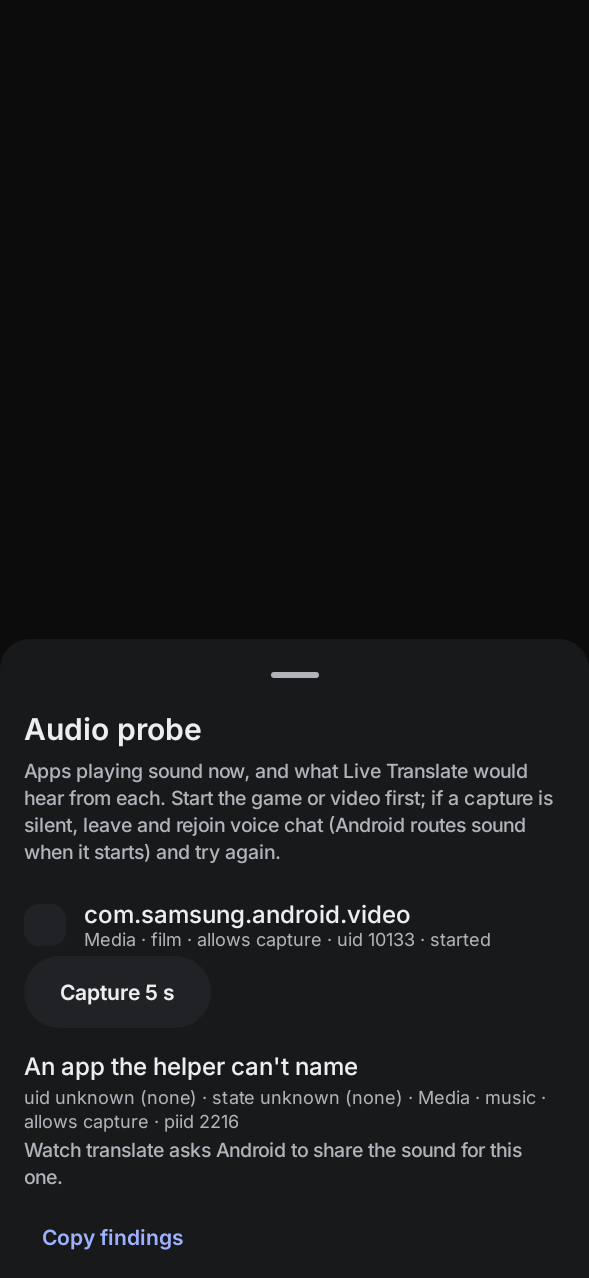
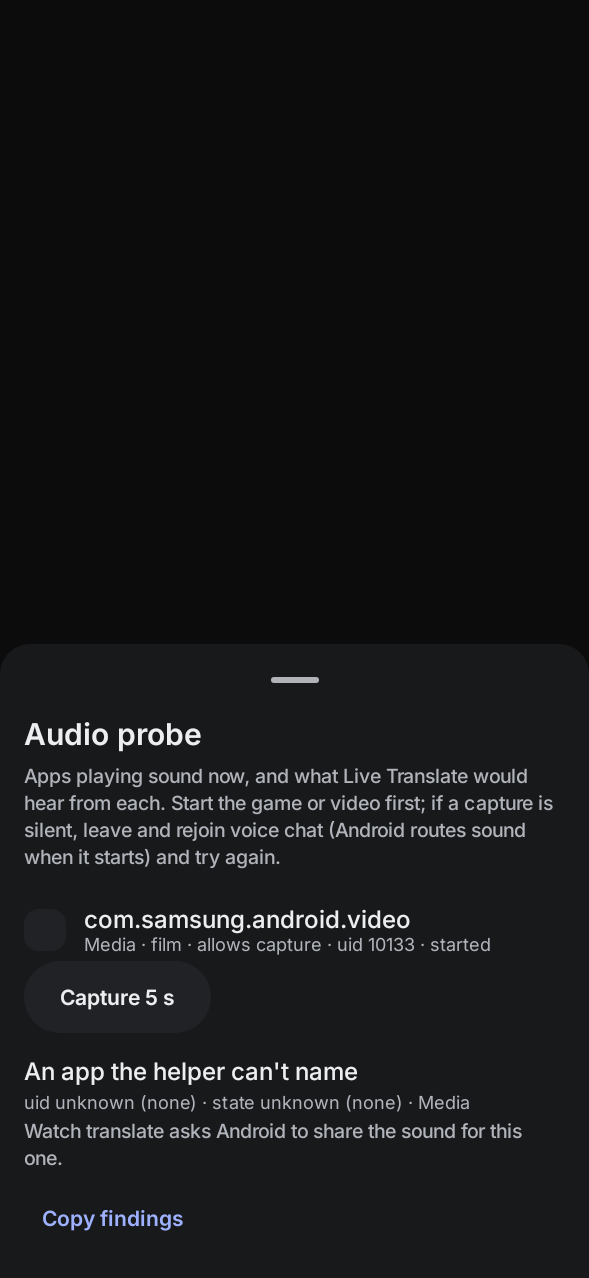
Live Translate (re-review): the log says the choice first and names only that app; the share notice goes once on; a late death notice
- Watch and Game translate log their choice first (the capture log keeps 300 characters of a line), then each player
  by uid, state, usage and where they were read; only the app chosen or picked is named. Copy diagnostics lists the
  players the same way, its header naming the apps picked for Live Translate. The Audio probe's row for a player whose
  app the helper can't name shows the same.
- The notice asking to share the sound goes once Live Translate is on.
- A helper let go after a failed call is unlinked from the death notice, and a death notice only clears the helper
  when the one here now is gone: a late notice of an older helper never takes the next one's place.

diff --git a/mobile/app/src/main/java/com/echoledger/mobile/recording/CaptureLog.kt b/mobile/app/src/main/java/com/echoledger/mobile/recording/CaptureLog.kt
@@ -39,24 +39,27 @@ object CaptureLog {
      * The text "Copy diagnostics" puts on the clipboard: the phone, the app and helper builds, the log, then (since v1.8)
      * the capture journal of the last 7 days and auto-record's timeline. No audio, names or numbers in any of it.
      */
-    fun report(context: Context, helperState: String, players: List<String> = emptyList()): String = buildString {
-        appendLine("EchoLedger capture diagnostics")
-        appendLine("Phone: ${Build.MANUFACTURER} ${Build.MODEL}, Android ${Build.VERSION.RELEASE} (SDK ${Build.VERSION.SDK_INT})")
-        appendLine("App: ${BuildConfig.VERSION_NAME} (${BuildConfig.VERSION_CODE}), helper build ${BuildConfig.HELPER_BUILD}")
-        appendLine("Helper: $helperState")
-        // Since v1.8: the players the helper sees now (uid, state, usage), what Live Translate chooses from.
-        if (players.isNotEmpty()) {
-            appendLine("-- Players the helper sees")
-            players.forEach { appendLine(it) }
+    fun report(context: Context, helperState: String, players: List<String> = emptyList(), picked: List<String> = emptyList()): String =
+        buildString {
+            appendLine("EchoLedger capture diagnostics")
+            appendLine("Phone: ${Build.MANUFACTURER} ${Build.MODEL}, Android ${Build.VERSION.RELEASE} (SDK ${Build.VERSION.SDK_INT})")
+            appendLine("App: ${BuildConfig.VERSION_NAME} (${BuildConfig.VERSION_CODE}), helper build ${BuildConfig.HELPER_BUILD}")
+            appendLine("Helper: $helperState")
+            // Since v1.8: the players the helper sees now (uid, state, usage), what Live Translate chooses from.
+            if (players.isNotEmpty()) {
+                appendLine(
+                    "-- Players the helper sees" + if (picked.isEmpty()) "" else " (picked for Live Translate: ${picked.joinToString()})"
+                )
+                players.forEach { appendLine(it) }
+            }
+            appendLine("--")
+            lines(context).forEach { appendLine(it) }
+            val journal = CallJournal.book(context)
+            appendLine("-- Calls, last ${CallJournal.KEEP_DAYS} days (detected → armed → started → both channels have audio → saved)")
+            CallJournal.describe(journal).ifEmpty { listOf("none") }.forEach { appendLine(it) }
+            appendLine("-- Auto-record")
+            CallJournal.describeMarks(journal).ifEmpty { listOf("nothing yet") }.forEach { appendLine(it) }
         }
-        appendLine("--")
-        lines(context).forEach { appendLine(it) }
-        val journal = CallJournal.book(context)
-        appendLine("-- Calls, last ${CallJournal.KEEP_DAYS} days (detected → armed → started → both channels have audio → saved)")
-        CallJournal.describe(journal).ifEmpty { listOf("none") }.forEach { appendLine(it) }
-        appendLine("-- Auto-record")
-        CallJournal.describeMarks(journal).ifEmpty { listOf("nothing yet") }.forEach { appendLine(it) }
-    }
 
     @Synchronized
     fun clear(context: Context) {

diff --git a/mobile/app/src/main/java/com/echoledger/mobile/translate/LiveTranslateService.kt b/mobile/app/src/main/java/com/echoledger/mobile/translate/LiveTranslateService.kt
@@ -168,12 +168,13 @@ class LiveTranslateService :
             val musicActive = runCatching { getSystemService(android.media.AudioManager::class.java).isMusicActive }.getOrDefault(false)
             val apps = if (mode == TranslateMode.GAME) prefs.game.games else prefs.watch.apps
             val pick = TranslateTargets.decide(mode, picked, apps, answer, musicActive)
-            // What the helper said and what was chosen, for Copy diagnostics (apps by package, no names or text).
+            // The choice first (the log keeps 300 characters of a line), then what the helper said of each player: uid,
+            // state and usage, no app names; only the app chosen or picked is named (since v1.8, for Copy diagnostics).
             if (helper != null) {
                 CaptureLog.add(
                     this@LiveTranslateService,
                     "translate",
-                    "${mode.key}: music active $musicActive; " + AudioProbe.lines(answer).joinToString(" | ") + " → " + pickText(pick)
+                    "${mode.key}: → ${pickText(pick)}; music active $musicActive; " + AudioProbe.lines(answer).joinToString(" | ")
                 )
             }
             // Never "nothing is playing" from an answer the helper could not give: Android shares the sound instead.
@@ -260,6 +261,8 @@ class LiveTranslateService :
 
     private fun showOverlay() {
         if (running.value == null) return
+        // On: a notice still asking to share the sound (or saying why it stopped before) is over (since v1.8).
+        getSystemService(NotificationManager::class.java).cancel(NOTIFICATION_PROBLEM_ID)
         val o = TranslateOverlay(this, subtitles = mode == TranslateMode.WATCH, actions = this)
         val landscape = resources.configuration.orientation == Configuration.ORIENTATION_LANDSCAPE
         val placement = prefs.placements[BoxGeometry.key(packageName, landscape)]

diff --git a/mobile/app/src/test/java/com/echoledger/mobile/translate/WatchTranslateStartTest.kt b/mobile/app/src/test/java/com/echoledger/mobile/translate/WatchTranslateStartTest.kt
@@ -79,6 +79,28 @@ class WatchTranslateStartTest : AppTest() {
     }
 
     @Test
+    fun `the capture log says the choice first and names no app but the one chosen`() {
+        CaptureLog.clear(app)
+        app.graph.helper.attach(
+            Helper(
+                """[{"uid":10133,"uid_from":"text","packages":["com.samsung.android.video"],"usage":1,"content_type":3,
+                    "capture_policy":1,"state":2,"state_from":"text","piid":2215},
+                   {"uid":10300,"uid_from":"getter","packages":["com.spotify.music"],"usage":1,"content_type":2,
+                    "capture_policy":1,"state":3,"state_from":"getter","piid":2216}]"""
+            ),
+            source = "adb"
+        )
+        val controller = buildService(LiveTranslateService::class.java, LiveTranslateService.startIntent(app, TranslateMode.WATCH)).create()
+        controller.startCommand(0, 1)
+        pumpUntil("the choice to be logged") { CaptureLog.lines(app).any { it.contains(" translate: ") } }
+        val line = CaptureLog.lines(app).last { it.contains(" translate: ") }
+        assertTrue(line, line.substringAfter(" translate: ").startsWith("watch: → listening to com.samsung.android.video"))
+        assertFalse("another app's name is more than the diagnosis needs: $line", line.contains("spotify"))
+        assertTrue(line, line.contains("uid 10300 · paused · Media"))
+        LiveTranslateService.stop(app)
+    }
+
+    @Test
     fun `with everything readable and nothing playing, it still says so`() {
         app.graph.helper.attach(
             Helper(

diff --git a/mobile/app/src/test/java/com/echoledger/mobile/overlay/PrivateWindowsTest.kt b/mobile/app/src/test/java/com/echoledger/mobile/overlay/PrivateWindowsTest.kt
@@ -386,6 +386,26 @@ class PrivateWindowsTest : AppTest() {
     }
 
     @Test
+    fun `the notice asking to share the sound goes once Live Translate is on`() {
+        val nm = app.getSystemService(android.app.NotificationManager::class.java)
+        nm.notify(
+            com.echoledger.mobile.translate.LiveTranslateService.NOTIFICATION_PROBLEM_ID,
+            androidx.core.app.NotificationCompat.Builder(app, com.echoledger.mobile.translate.LiveTranslateService.CHANNEL)
+                .setSmallIcon(com.echoledger.mobile.R.drawable.ic_stat_rec)
+                .setContentText("EchoLedger couldn't tell which app is playing, so Android asks to share the sound.")
+                .build()
+        )
+        val controller = buildService(
+            com.echoledger.mobile.translate.LiveTranslateService::class.java,
+            android.content.Intent(app, com.echoledger.mobile.translate.LiveTranslateService::class.java)
+        ).create()
+        controller.get().openForTest(com.echoledger.mobile.translate.TranslateMode.WATCH)
+        idle()
+        assertEquals(null, shadowOf(nm).getNotification(com.echoledger.mobile.translate.LiveTranslateService.NOTIFICATION_PROBLEM_ID))
+        controller.get().onStop()
+    }
+
+    @Test
     fun `turning the grip on while hidden adds no grip over the grey dot`() {
         ShareGuard.setHidden(true)
         val box = TranslateOverlay(app, subtitles = false, actions = NoActions)

diff --git a/mobile/app/src/main/java/com/echoledger/mobile/translate/AudioProbe.kt b/mobile/app/src/main/java/com/echoledger/mobile/translate/AudioProbe.kt
@@ -162,15 +162,14 @@ object AudioProbe {
     }
 
     /**
-     * What the helper returned for one player, for the probe and Copy diagnostics (no names, numbers or text):
-     * "uid 10133 (getter) · started (text) · Media · film · allows capture · piid 57 · com.samsung.android.video".
+     * What the helper returned for one player, for the capture log and Copy diagnostics: its uid, state and usage, and
+     * where the uid and the state were read ("text": the player's description; "none": not at all) — "uid 10133 (text)
+     * · started (text) · Media". Never an app's name: only the app chosen or picked is named, by the caller.
      */
-    fun line(p: ProbePlayer): String = listOfNotNull(
-        if (p.uid > 0) "uid ${p.uid}" + p.uidFrom.from() else "uid unknown" + p.uidFrom.from(),
+    fun line(p: ProbePlayer): String = listOf(
+        (if (p.uid > 0) "uid ${p.uid}" else "uid unknown") + p.uidFrom.from(),
         state(p.state) + p.stateFrom.from(),
-        describe(p),
-        p.piid.takeIf { it >= 0 }?.let { "piid $it" },
-        p.packageName
+        usage(p.usage)
     ).joinToString(" · ")
 
     private fun String?.from(): String = if (this == null || this == "getter") "" else " ($this)"

diff --git a/mobile/app/src/test/java/com/echoledger/mobile/capture/HelperConnectionTest.kt b/mobile/app/src/test/java/com/echoledger/mobile/capture/HelperConnectionTest.kt
@@ -266,6 +266,23 @@ class HelperConnectionTest : AppTest() {
         assertFalse(connection.state.value.connected)
     }
 
+    @Test
+    fun `a helper let go never clears the next one when its death notice comes late`() {
+        val connection = connection()
+        val first = Helper(2000)
+        connection.attach(first, "adb")
+        connection.lost(first)
+        val next = Helper(2000)
+        connection.attach(next, "shizuku")
+        // The first one's death notice arrives now.
+        val death = HelperConnection::class.java.getDeclaredField("death").apply {
+            isAccessible = true
+        }.get(connection) as android.os.IBinder.DeathRecipient
+        death.binderDied()
+        assertTrue(connection.helper === next)
+        assertTrue(connection.state.value.connected)
+    }
+
     /** A binder whose process is gone. */
     private class GoneBinder : android.os.IBinder {
         override fun getInterfaceDescriptor(): String = "com.echoledger.mobile.capture.ICaptureHelper"

diff --git a/mobile/app/src/main/java/com/echoledger/mobile/privilege/HelperConnection.kt b/mobile/app/src/main/java/com/echoledger/mobile/privilege/HelperConnection.kt
@@ -51,6 +51,8 @@ class HelperConnection(private val context: Context) {
     val armState: StateFlow<String?> = _armState
 
     private val death = IBinder.DeathRecipient {
+        // A helper let go or replaced before its death notice came is no news: the one here now is alive.
+        if (helper?.asBinder()?.isBinderAlive == true) return@DeathRecipient
         helper = null
         _armState.value = null
         _state.value = State(error = "Capture helper stopped (reboot or Wireless debugging off). Re-enable it from Setup.")
@@ -72,6 +74,7 @@ class HelperConnection(private val context: Context) {
      */
     fun lost(binder: ICaptureHelper) {
         if (helper?.asBinder() !== binder.asBinder()) return
+        runCatching { binder.asBinder().unlinkToDeath(death, 0) }
         helper = null
         _armState.value = null
         _state.value = State(error = "Capture helper stopped (reboot or Wireless debugging off). Re-enable it from Setup.")

diff --git a/mobile/app/src/main/java/com/echoledger/mobile/ui/MainViewModel.kt b/mobile/app/src/main/java/com/echoledger/mobile/ui/MainViewModel.kt
@@ -1292,9 +1292,12 @@ class MainViewModel(app: Application) : AndroidViewModel(app) {
         } else {
             "not connected (${h.error ?: "never started"})"
         }
-        // Since v1.8: what the helper says of each player now (uid, state, usage), as Live Translate reads it.
+        // Since v1.8: what the helper says of each player now (uid, state, usage), as Live Translate reads it; only the
+        // apps picked for Live Translate are named.
         val players = if (h.connected) com.echoledger.mobile.translate.AudioProbe.lines(graph.helper.players()) else emptyList()
-        com.echoledger.mobile.recording.CaptureLog.report(getApplication(), state, players)
+        val lt = graph.settings.current().liveTranslate
+        val picked = (lt.watch.apps + lt.game.games).distinct()
+        com.echoledger.mobile.recording.CaptureLog.report(getApplication(), state, players, picked)
     }
 
     fun connectShizuku() {

diff --git a/mobile/app/src/test/java/com/echoledger/mobile/ui/ScreenshotsTest.kt b/mobile/app/src/test/java/com/echoledger/mobile/ui/ScreenshotsTest.kt
@@ -652,7 +652,7 @@ class ScreenshotsTest : ScreenTest() {
         shoot { AudioProbeSheet(vm, helperReady = true, onDismiss = {}) }
         pumpUntil("the players") { runCatching { compose.onNodeWithText("An app the helper can't name").assertExists() }.isSuccess }
         compose.onNodeWithText("Media · film · allows capture · uid 10133 · started").assertExists()
-        compose.onNodeWithText("uid unknown (none) · state unknown (none) · Media · music · allows capture · piid 2216").assertExists()
+        compose.onNodeWithText("uid unknown (none) · state unknown (none) · Media").assertExists()
         themeMode = "dark"
         compose.mainClock.advanceTimeBy(500)
         compose.waitForIdle()

diff --git a/mobile/app/src/test/java/com/echoledger/mobile/translate/WatchTargetTest.kt b/mobile/app/src/test/java/com/echoledger/mobile/translate/WatchTargetTest.kt
@@ -117,10 +117,11 @@ class WatchTargetTest : AppTest() {
             helperBuild = 461_000
         )
         assertEquals(
+            "each player by uid, state, usage and where they were read; no app names",
             listOf(
                 "helper build 461000",
-                "uid 10133 (text) · started (text) · Media · film · allows capture · piid 2215 · com.samsung.android.video",
-                "uid unknown (none) · state unknown (none) · Media · film · allows capture · piid 2216"
+                "uid 10133 (text) · started (text) · Media",
+                "uid unknown (none) · state unknown (none) · Media"
             ),
             AudioProbe.lines(answer)
         )
